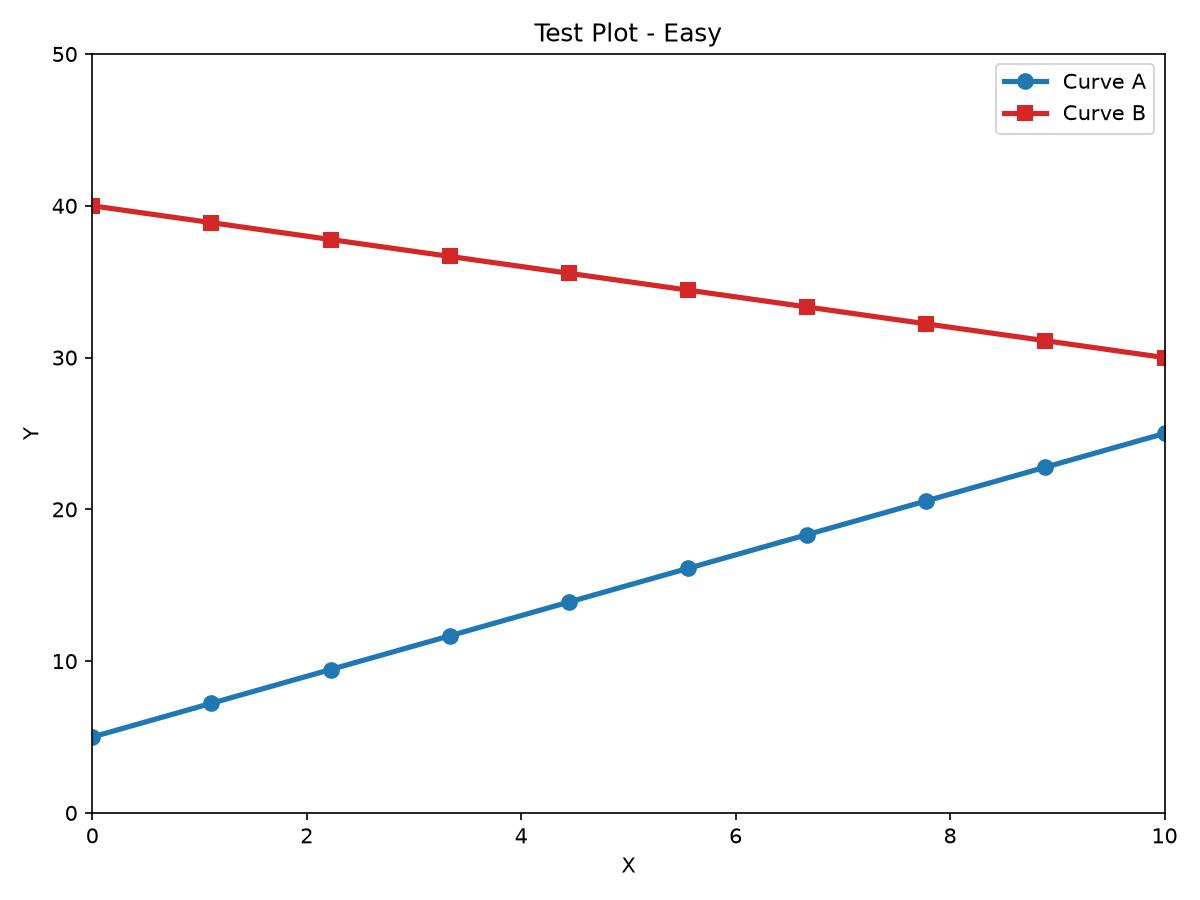
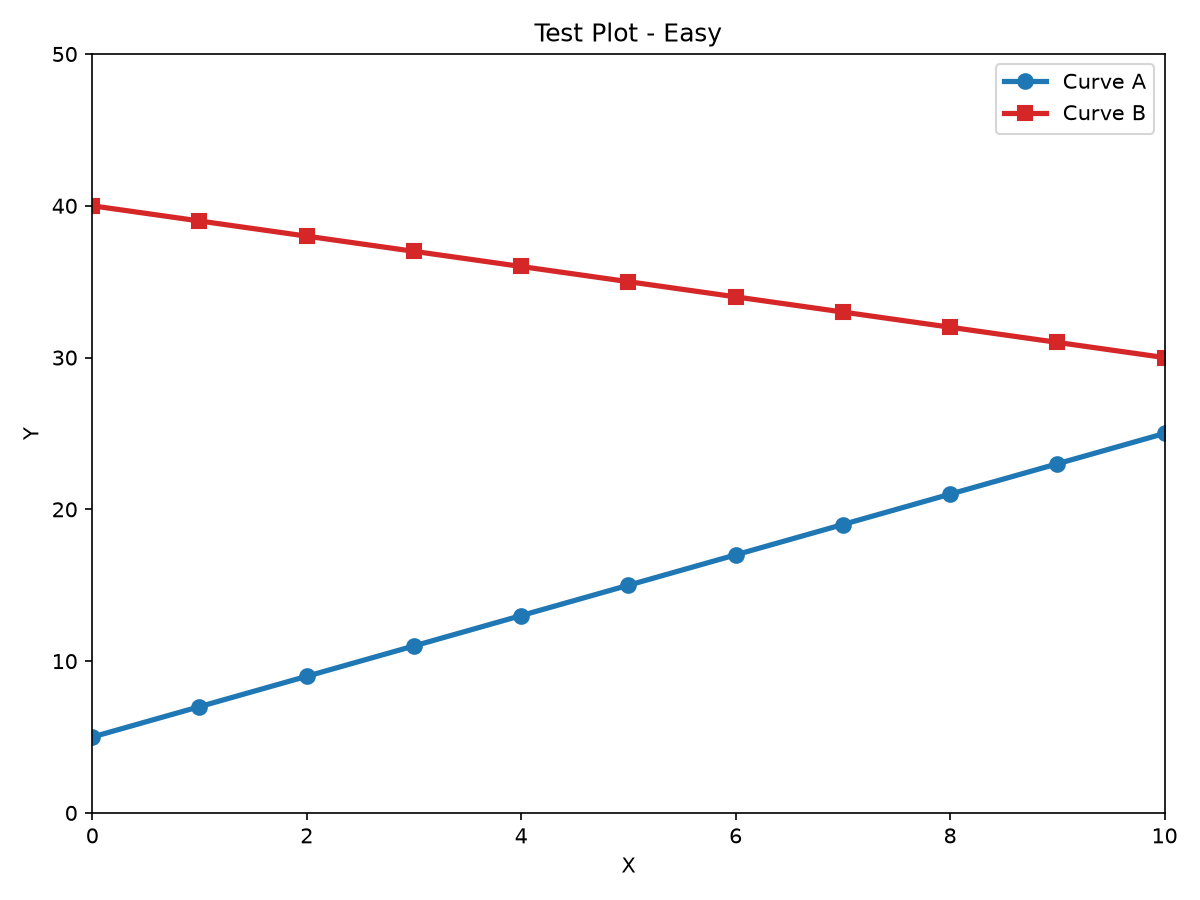
test: use clean round-step x-grids for synthetic example plots
generate_test_plots.py built each chart's x values with np.linspace(a,
b, n) for an n that didn't evenly divide the range, producing
repeating-decimal sample points (e.g. 1.11111, 7.77778) that are
awkward to eyeball or hand-verify against the answer-key CSVs. Use
endpoints/counts that divide evenly instead: easy steps by 1.0, medium
by 2.0, hard by 0.5. Regenerated all three PNGs and their answer keys.

Fixes #4

diff --git a/examples/generate_test_plots.py b/examples/generate_test_plots.py
@@ -102,7 +102,10 @@ def _add_scan_noise(png_path: Path, *, sigma: float) -> None:
 
 
 def _build_easy() -> list[CurveSpec]:
-    x = np.linspace(0, 10, 10)
+    # Step of exactly 1.0 (not np.linspace(0, 10, 10)'s 10/9), so every data
+    # point -- and its answer-key value -- is a clean number to eyeball or
+    # diff, rather than a repeating decimal like 1.11111.
+    x = np.linspace(0, 10, 11)
     return [
         CurveSpec("Curve A", x, 2 * x + 5, "tab:blue", "o", "-", 2.5),
         CurveSpec("Curve B", x, 40 - x, "tab:red", "s", "-", 2.5),
@@ -110,7 +113,10 @@ def _build_easy() -> list[CurveSpec]:
 
 
 def _build_medium() -> list[CurveSpec]:
-    x = np.linspace(0, 20, 13)
+    # Step of exactly 2.0 (not np.linspace(0, 20, 13)'s 20/12); Curve C's
+    # (x - 10) offset stays an even number at every sample, so its quadratic
+    # term is also a clean value rather than a repeating decimal.
+    x = np.linspace(0, 20, 11)
     return [
         CurveSpec("Curve A", x, 5 + 3 * x, "tab:blue", "o", "-", 1.5),
         CurveSpec("Curve B", x, 80 - 2.5 * x, "tab:green", "^", "-", 1.5),
@@ -119,7 +125,11 @@ def _build_medium() -> list[CurveSpec]:
 
 
 def _build_hard() -> list[CurveSpec]:
-    x = np.linspace(0.5, 10, 15)
+    # Step of exactly 0.5 (not np.linspace(0.5, 10, 15)'s 9.5/14). The curves
+    # themselves (exponential/reciprocal) still produce non-round y-values --
+    # that's inherent to "hard", not the repeating-decimal x-grid artifact
+    # this fixes.
+    x = np.linspace(0.5, 10, 20)
     return [
         CurveSpec("Curve A", x, 5 * np.exp(0.35 * x), "#1a3fa8", "o", "-", 1.0),
         CurveSpec("Curve B", x, 4 * np.exp(0.33 * x), "#2a4fb8", None, "--", 1.0),
